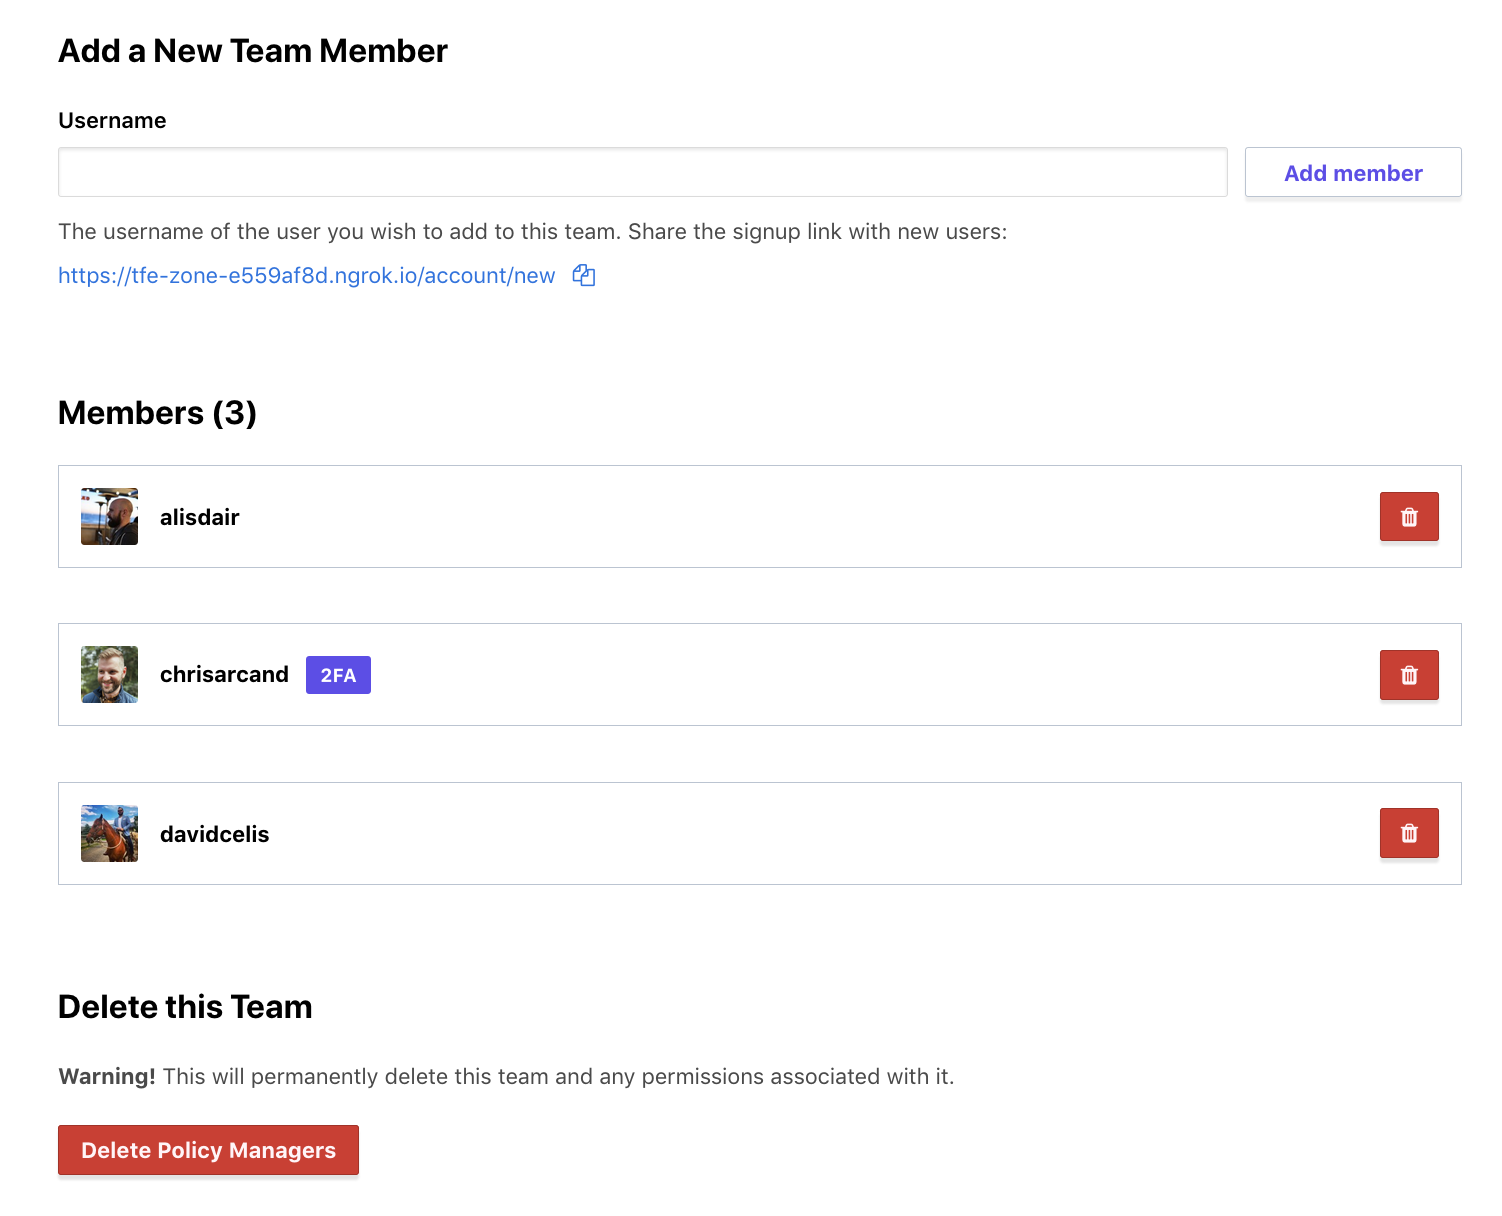
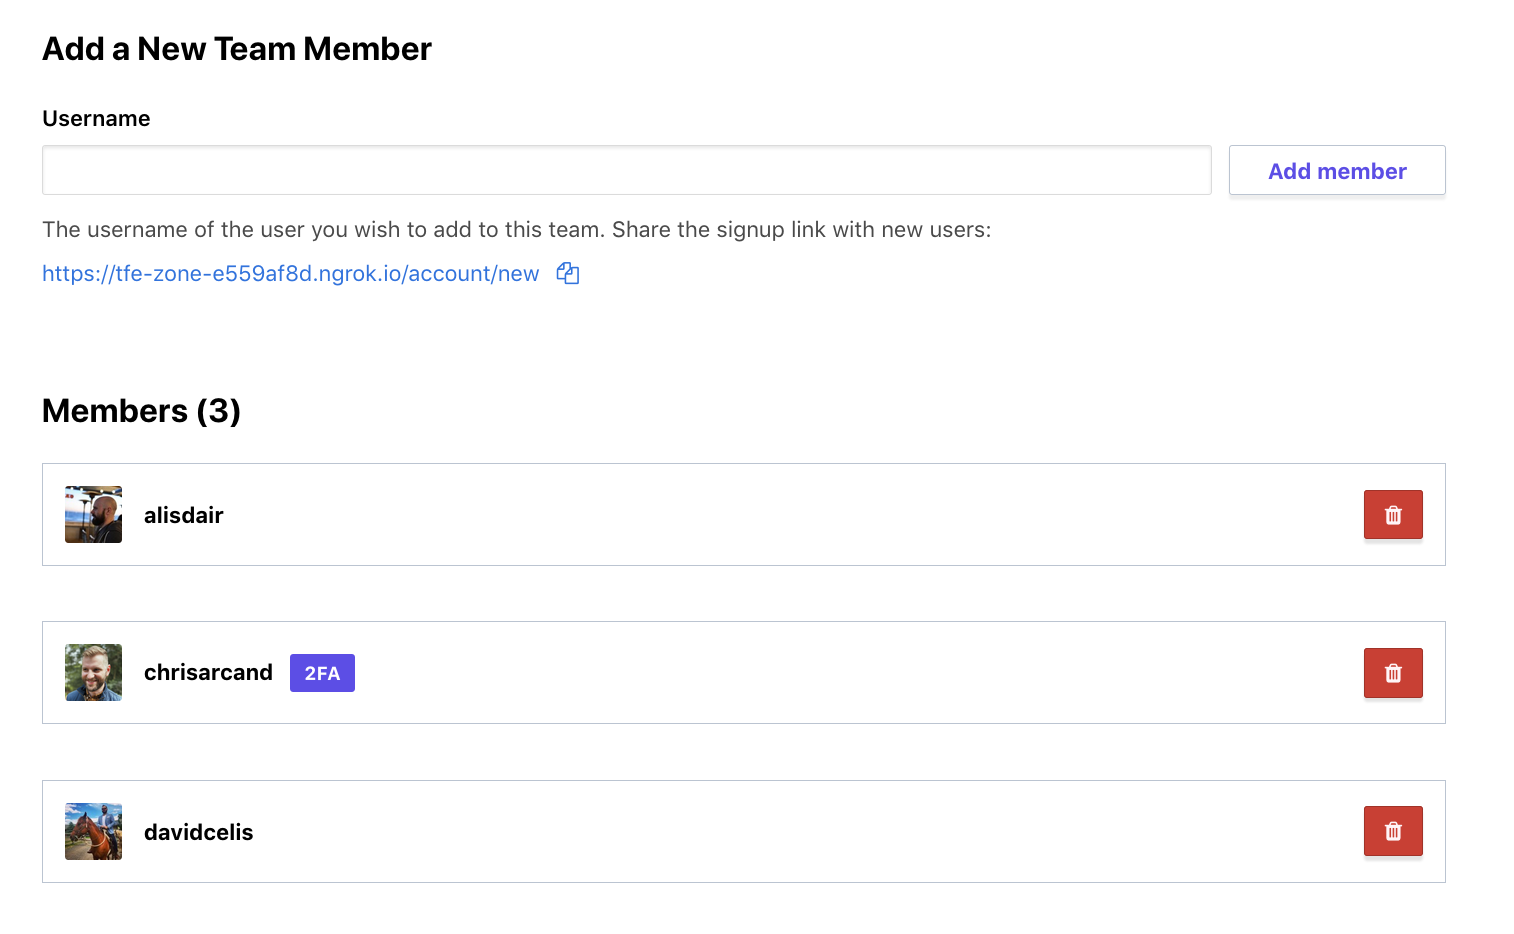
Move membership image
This is more appropriate under the membership header.

diff --git a/content/source/docs/cloud/users-teams-organizations/teams.html.md b/content/source/docs/cloud/users-teams-organizations/teams.html.md
@@ -38,9 +38,7 @@ The teams page includes a list of the organization's teams. Clicking a team in t
 
 ![Screenshot: a team's settings page showing organization access, visibility, and team token.](./images/teams-team-settings.png)
 
-The team settings page lists the team's current members, with badges to indicate which users have [two-factor authentication](./2fa.html) enabled:
-
-![Screenshot: a team's settings page showing the team's members.](./images/teams-team-settings-membership.png)
+The team settings page lists the team's current members, with badges to indicate which users have [two-factor authentication](./2fa.html) enabled.
 
 Only organization owners can manage teams or view the full list of teams. Other users can view any teams marked as visible within the organization or they
 are members of (including secret teams). See [Team Visibility](./teams.html#team-visibility) for more information.
@@ -63,6 +61,8 @@ To delete a team, go to the target team's settings page and click the "Delete TE
 **Terraform:** See the `tfe` provider's [`tfe_team_member` resource](/docs/providers/tfe/r/team_member.html) or [`tfe_team_members` resource](/docs/providers/tfe/r/team_members.html).
 
 Organization owners can use a team's settings page to add and remove users from the team.
+
+![Screenshot: a team's settings page showing the team's members.](./images/teams-team-settings-membership.png)
 
 To add a user, enter their username in the "Username" text field (located under the "Add a New Team Member" header) and click the "Add member" button. (You must know the user's exact username; users cannot be added using email addresses or other personal information.)
 
